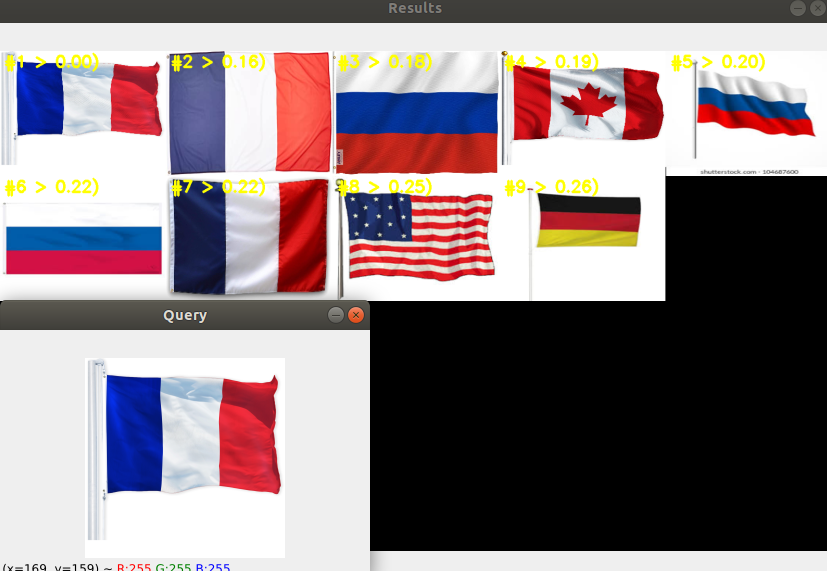
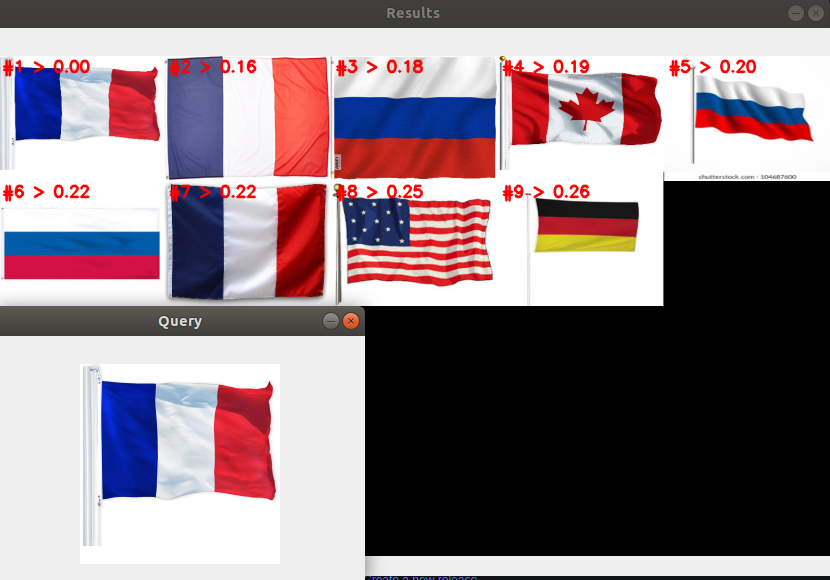
more readm

diff --git a/image_helpers/utils.py b/image_helpers/utils.py
@@ -42,7 +42,7 @@ def show_montage(query, res):
         # print(f"query_uri: {query[0].uri}, match_uri: {m['uri']}, scores: {m['scores']['cosine']['value']}")
         result = cv2.imread(m["uri"]) 
         score = m['scores']['cosine']['value']
-        montage.addResult(result, text=f"#{i+1} > {score:.2f})")
+        montage.addResult(result, text=f"#{i+1} > {score:.2f}")
 
         # show the output image of results
         cv2.imshow("Results", imutils.resize(montage.montage, height=500))
